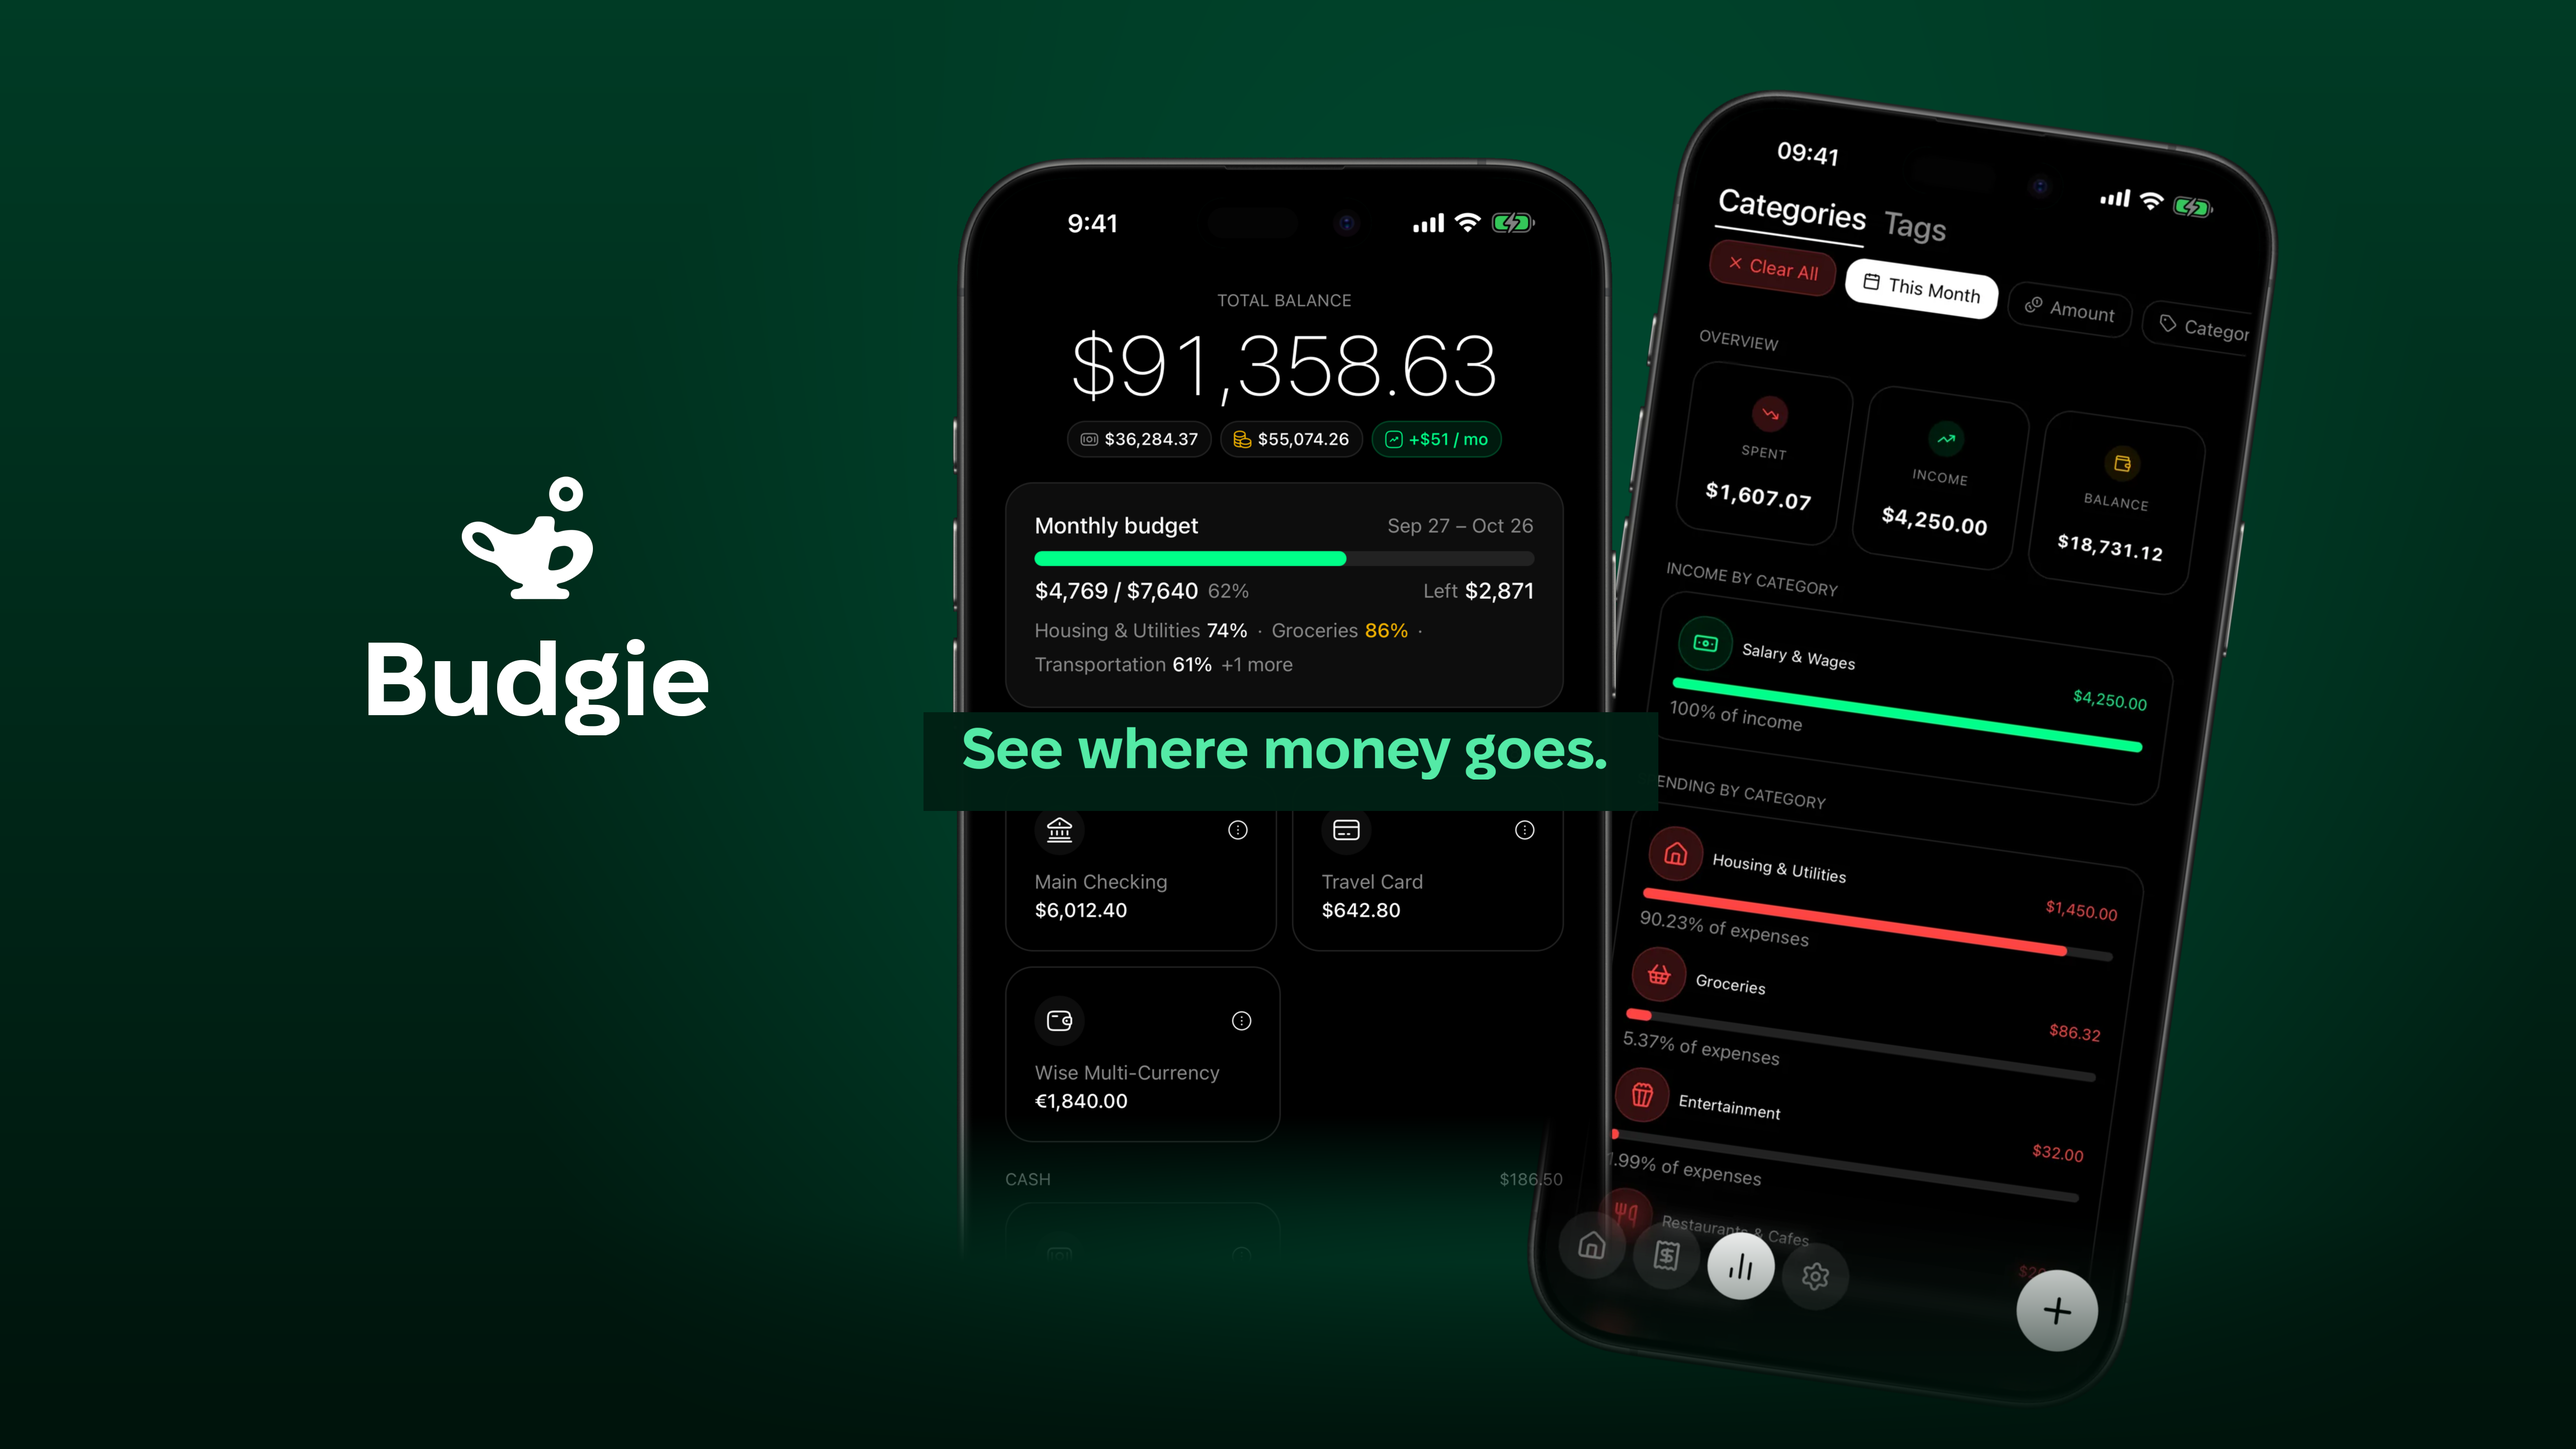
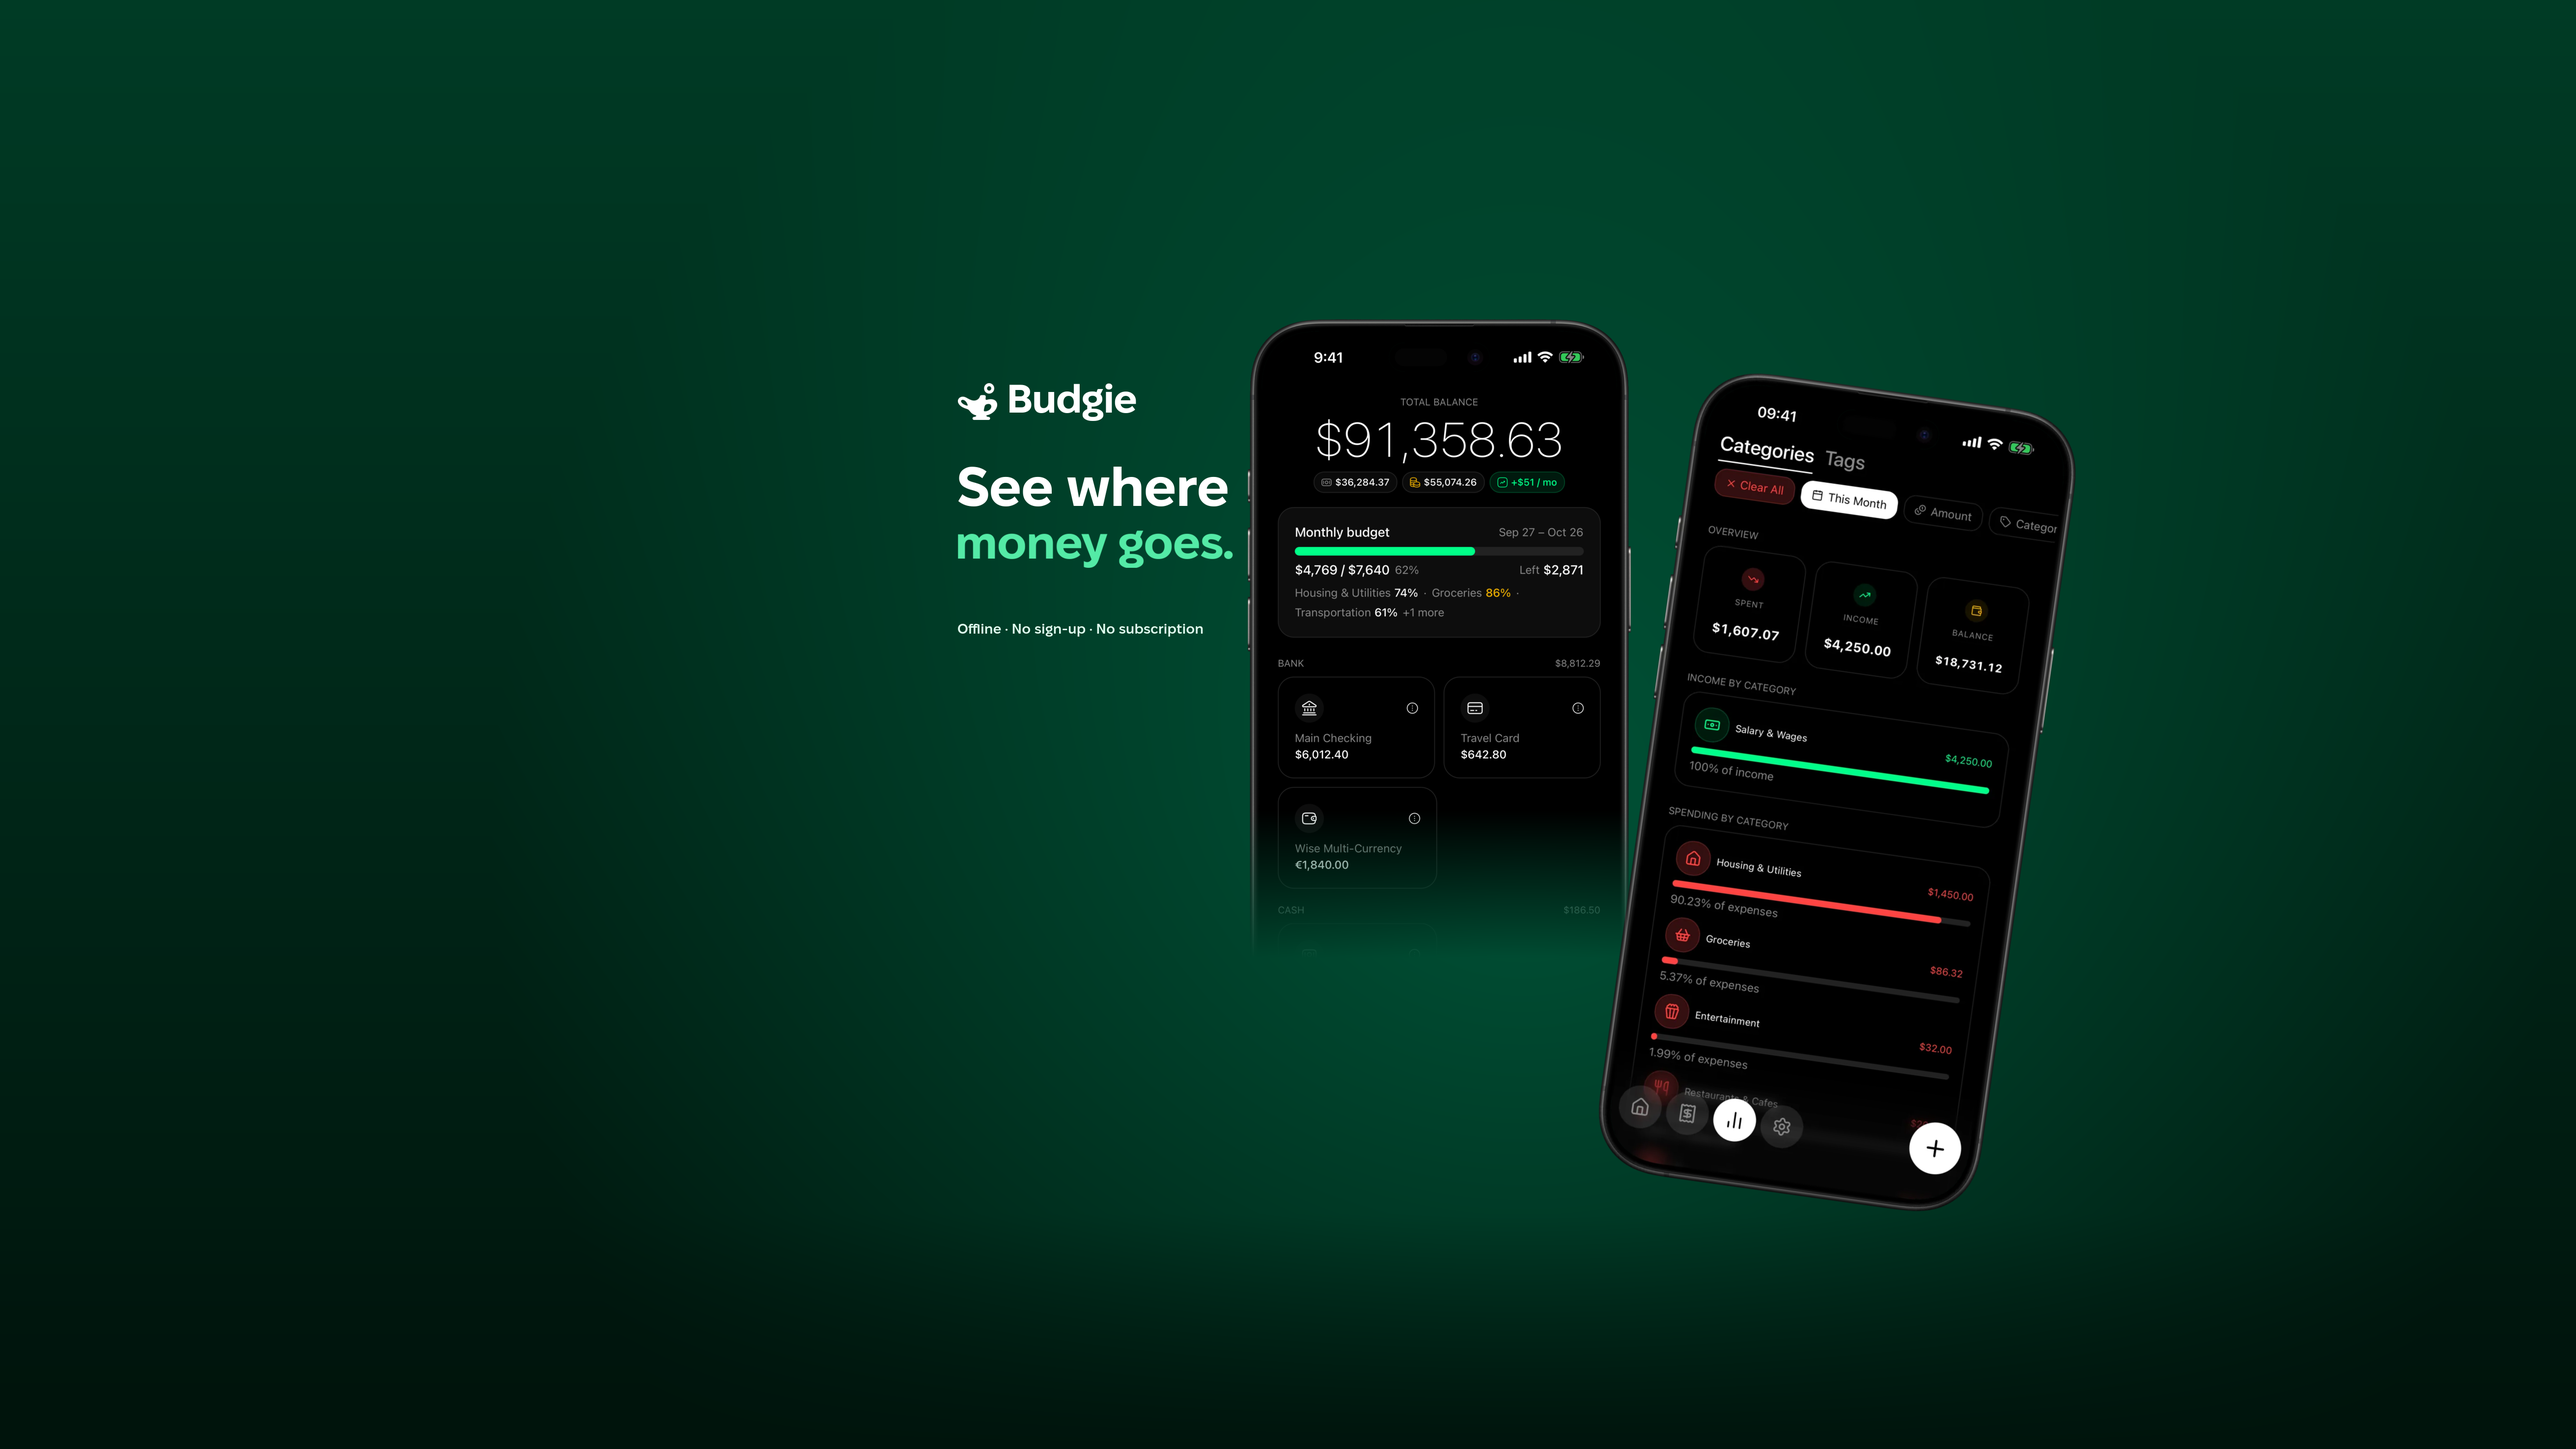
fix(app): lay out the universal header without covering the device

Changed region(s): [[0.3419, 0.0624, 0.9014, 0.9356], [0.1243, 0.3431, 0.2797, 0.5302]]

diff --git a/packages/app/fastlane/screenshots/MARKETING.md b/packages/app/fastlane/screenshots/MARKETING.md
@@ -97,13 +97,14 @@ The secondary phone uses the localized, transparent framed analytics capture in
 come from the existing `frame-device.sh` / mobile-ci system. The home screenshot
 already bleeds off its lower edge; v2 retains that real capture boundary and
 fades its lower tail into the universal background instead of inventing UI or a
-missing bottom bezel. The universal hero is 1350 pixels wide; the rear phone is
-2600 pixels tall and tilted 8 degrees. Together they fill the lower canvas.
+missing bottom bezel. The universal hero is 780 pixels wide; the rear phone is
+1650 pixels tall before its 8-degree tilt. Their placement leaves the text column
+clear of both screens.
 
 The art reuses the app icon mark, FixelDisplay-Bold / FixelDisplay-SemiBold,
 `#54EAA6` highlight and screenshot palette `#003B25 → #00140C`. The localized
 headlines reuse PR [#1691](https://github.com/budgie-at/budgie/pull/1691)'s analytics
-caption voice; the wide layout also carries its offline/no-account/no-subscription
+caption voice; both layouts carry their offline/no-account/no-subscription
 trust message. No ASO metadata or screenshot captions are changed here.
 
 | Locale | Headline |
@@ -133,17 +134,31 @@ use `(left, top, right, bottom)`, with exclusive right/bottom edges:
 
 These are deliberately tighter than a guessed central 16:9 or 21:9 crop. As
 approved for v2, **the headline, healthy balance amount and green budget card are
-the critical content** kept inside these bounds. Device frames, lower account
-rows, the secondary analytics phone, background glow and the universal brand
-lockup extend outside and may be cropped. This preserves large devices without
-shrinking the entire composition into the small universal safe rectangle.
+the critical content** kept inside these bounds. The universal brand lockup and
+localized supporting line are also inside its safe rectangle. Device frames,
+lower account rows, the secondary analytics phone and background glow extend
+outside and may be cropped.
 
-The universal uses a 1310-pixel maximum headline width at `(1960, 1480)`, a dark
-backing for contrast, and the healthy phone at `(1940, 320)`. The wide uses a
-690-pixel maximum headline line width at `(1125, 670)` / `(1125, 800)` and the
-healthy phone at `(1850, 270)`. Inspecting the safe-rectangle crop at 350 pixels
+The universal uses a left text column with a compact brand row at `(1950, 780)`,
+two 560-pixel maximum headline lines at `(1950, 950)` / `(1950, 1080)`, and the
+supporting line at `(1950, 1270)`. Its first headline line is white and its second
+is green, matching the wide typography and localized meaning. The healthy phone
+starts at `(2540, 650)`, to the right of the text, with its positive balance and
+complete green budget card inside the safe area. The secondary phone starts at
+`(3230, 740)` behind the hero's right edge. No text or backing band covers either
+screen. The wide uses a 690-pixel maximum headline line width at `(1125, 670)` /
+`(1125, 800)` and the healthy phone at `(1850, 270)`. Inspecting the safe-rectangle
+crop at 600 pixels
 wide provides a conservative small-format readability check; it is a local design
-check, not a claim about the precise rendered ASC viewport.
+check, not a claim about the precise rendered ASC viewport. To inspect the
+universal composition at the exact safe crop and a search-sized downscale:
+
+```bash
+header=packages/app/fastlane/screenshots/marketing/headers/en-US/header-universal-5244x2950.png
+magick "$header" +repage -crop 1402x962+1921+660 +repage /tmp/budgie-header-en-US-safe-area.png
+magick /tmp/budgie-header-en-US-safe-area.png -resize 600x /tmp/budgie-header-en-US-safe-area-600.png
+magick "$header" -resize 600x /tmp/budgie-header-en-US-universal-600.png
+```
 
 Apple's [asset guidance](https://developer.apple.com/app-store/asset-best-practices/)
 asks for localized, short, legible text and focal content within template safe
